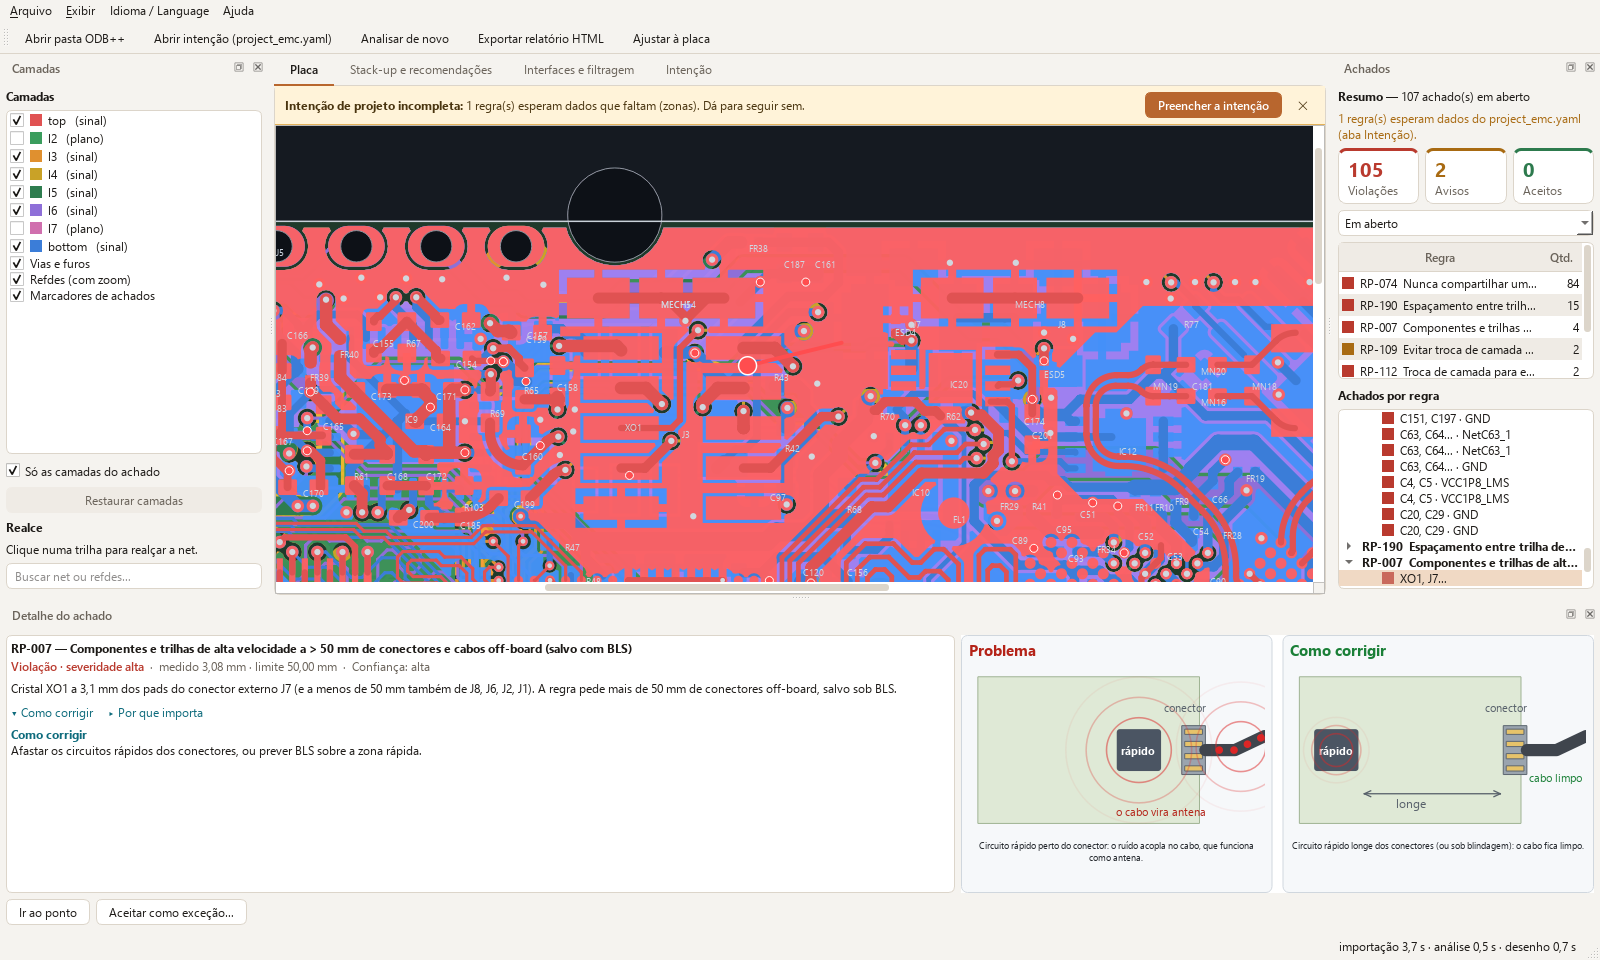
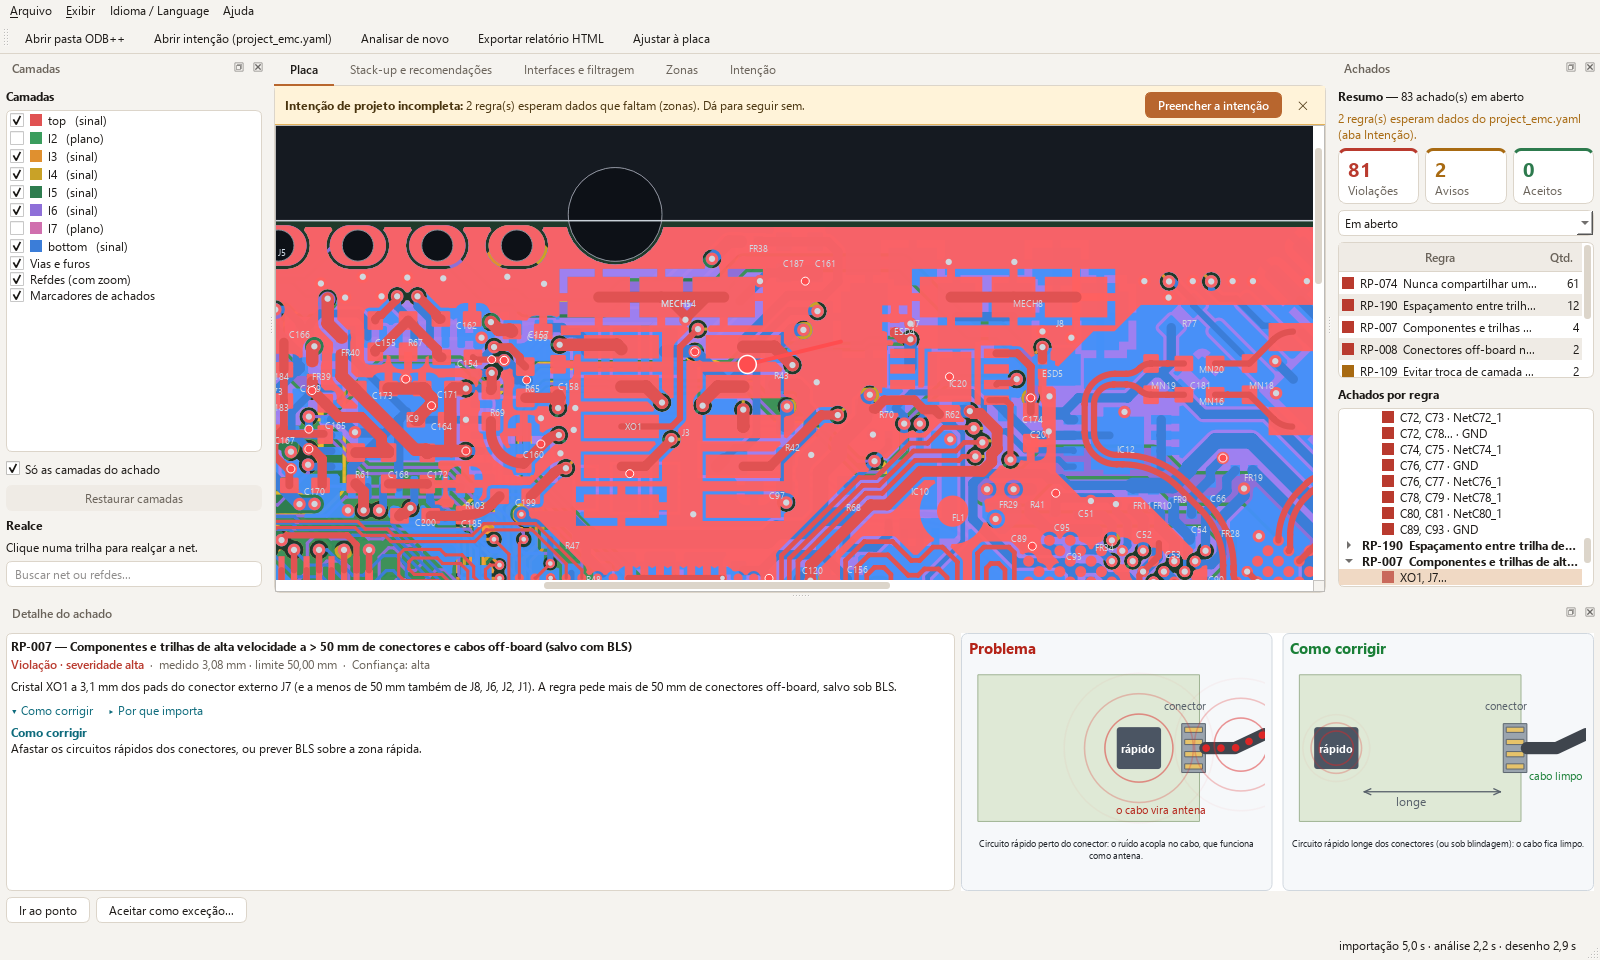
Vitrine: zonas eletromagnéticas, conectores fixos e terras (0V)
- O que faz: 30 checks automáticos; zonas, conectores fixos e terras (0V);
  relatório com as zonas e o 0V; limitação sobre a zona de cada CI.
- Imagens novas da 0.3.3: placa, achado, stack-up, interfaces, zonas, terras,
  tema escuro e a animação, em português e inglês; ilustrações dos
  conectores em bordas diferentes e da zona maior que λ/10.
- Guias e modelos do project_emc com zonas[].funcao e as vistas novas.

diff --git a/README.md b/README.md
@@ -8,7 +8,7 @@
 **Indicação de riscos de EMC em placas de circuito impresso, a partir do ODB++, antes de mandar fabricar.**
 *EMC risk review for PCBs, from their ODB++ export, before you send them to fab. [English below](#english).*
 
-![O EMClytics em uso: a placa com o resumo dos achados, um achado com a ilustração animada, o stack-up, as interfaces e o tema escuro](docs/img/demo.png)
+![O EMClytics em uso: a placa com o resumo dos achados, um achado com a ilustração animada, o stack-up, as interfaces, as zonas, o 0V e o tema escuro](docs/img/demo.png)
 
 O EMClytics lê a exportação ODB++ da placa, aplica uma base de regras de boas práticas de layout para EMC e mostra cada risco na placa: o que foi encontrado, por que importa, como corrigir, a severidade e a confiança do achado. Cada achado vem com uma ilustração animada do problema e da correção.
 
@@ -20,11 +20,13 @@ O EMClytics lê a exportação ODB++ da placa, aplica uma base de regras de boas
   - Conferido com exportações do Altium Designer e do Siemens Xpedition. O programa segue a especificação ODB++ 8.1, então outras ferramentas que exportam ODB++ devem abrir.
   - Placas rígido-flex (zonas rígida e flexível) e HDI (vias cegas, enterradas, empilhadas e escalonadas), em polegada ou milímetro.
 - **288 regras** de layout para EMC: zoneamento, planos e caminho de retorno, desacoplamento, interfaces e filtragem, linhas de transmissão, troca de camada, stack-up, cristais, ESD de sistema e outras. Cada regra traz o mecanismo físico e a correção sugerida.
-- **25 checks automáticos**, entre eles:
+- **30 checks automáticos**, entre eles:
   - trilha cruzando fenda ou divisão do plano de referência;
+  - 0V dividido (como AGND/DGND), conectores em partes diferentes do plano e costura de divisas e isolações;
   - plano de referência incompleto ou hachurado, e trilha rápida perto da borda do plano;
   - decap longe do pino de alimentação, na face oposta ou com via compartilhada;
-  - circuitos rápidos e cristais perto de conectores externos;
+  - circuitos rápidos e cristais perto de conectores externos, e conectores externos espalhados por várias bordas;
+  - zona maior que λ/10 em fMAX sem previsão de blindagem;
   - troca de camada em net crítica, sem vias de costura ou perto de fenda;
   - planos da mesma rede sem vias de costura a cada λ/15;
   - espaçamento de trilhas de clock;
@@ -35,10 +37,13 @@ O EMClytics lê a exportação ODB++ da placa, aplica uma base de regras de boas
 - **Ilustração animada em cada achado:** o problema e a correção lado a lado, com a corrente andando, para entender o contexto sem ser especialista.
 - **Nada passa por falta de dado:** regra que depende de um dado ausente aparece como "não verificada", com o motivo. As regras manuais aparecem como checklist.
 - **Stack-up em corte**, com o papel de cada camada; **recomendações** de roteamento por tipo de sinal; **interfaces e filtragem** por conector, com o caminho de cada pino até o CI.
-- **Relatório HTML** da análise, com o mesmo resumo.
+- **Zonas eletromagnéticas:** a zona de cada CI (interface, rádio, analógico, digital, digital rápido, fonte chaveada), se a disposição atual mistura as zonas e uma proposta sobre o contorno da placa, com os CIs, os conectores e onde vai blindagem. Outra vista mantém os conectores e as antenas no lugar e arruma o resto em volta deles.
+- **Terras (0V):** o papel de cada rede de 0V (principal, AGND/DGND, chassi, entrada, isolada), onde fica, o que liga uma à outra e o que fazer.
+- **Relatório HTML** da análise, com o mesmo resumo, as zonas e o 0V.
 - **Tema claro e escuro**, que pode seguir o Windows (**Exibir › Tema**).
 - **Português e inglês:** interface, achados, regras e relatório nos dois idiomas (menu **Idioma / Language**).
 - **Placa de exemplo** dentro do programa (LimeSDR Mini 2.5), para ver tudo funcionando com um clique.
+- **Linha de comando** (`EMClytics-cli.exe`): o mesmo relatório sem abrir a janela, para usar em scripts.
 - **Sem IA e sem nuvem:** regras fixas, e tudo roda no seu computador.
 
 | | |
@@ -47,6 +52,8 @@ O EMClytics lê a exportação ODB++ da placa, aplica uma base de regras de boas
 | A placa, com as camadas e o resumo dos achados | Interfaces e filtragem, por conector |
 | ![Stack-up em corte e recomendações](docs/img/stackup.png) | ![Tema escuro](docs/img/tema_escuro.png) |
 | Stack-up em corte e recomendações por tipo de sinal | Tema escuro |
+| ![Zonas: a proposta sobre o contorno da placa](docs/img/zonas.png) | ![Terras (0V)](docs/img/terras.png) |
+| Zonas: a proposta, com os CIs, os conectores e a blindagem | Terras (0V): as redes de 0V e o que fazer |
 | ![Achado na placa: oscilador a 3,1 mm de um conector externo](docs/img/achado.png) | |
 | Um achado: o que é, a medida, como corrigir e a ilustração | |
 
@@ -57,6 +64,8 @@ Ao clicar num achado, o painel de detalhe mostra o problema e a correção, anim
 ![Trilha cruzando uma fenda no plano](docs/img/ilustracao_fenda.png)
 ![Capacitor de desacoplamento longe do pino](docs/img/ilustracao_desacoplamento.png)
 ![Troca de camada sem via de retorno](docs/img/ilustracao_troca_camada.png)
+![Conectores em bordas diferentes: os cabos formam um dipolo](docs/img/ilustracao_conectores_bordas.png)
+![Zona maior que λ/10 sem blindagem](docs/img/ilustracao_zona_grande.png)
 
 ## Download
 
@@ -84,6 +93,7 @@ Passo a passo: [docs/guia_rapido.md](docs/guia_rapido.md). Modelo comentado da i
 - Polígono hachurado é detectado e avisado, mas não vira plano: para a análise, use preenchimento sólido.
 - Slots desenhados como linha na furação não são lidos.
 - No rígido-flex, a análise usa o stack-up da zona rígida também na zona flexível.
+- A zona de cada CI vem do que está ligado a ele (conector, cristal, antena, indutor de fonte chaveada, nets rápidas, nome das nets): confira e, se precisar, corrija em `zonas[].funcao` no `project_emc.yaml`. A proposta de zonas é um esboço; a posição exata e o roteamento ficam com o projetista.
 
 O que mudou e o que ainda não existe, versão a versão: [CHANGELOG.md](CHANGELOG.md).
 
@@ -113,7 +123,7 @@ Imagens: placa LimeSDR Mini 2.5, da Lime Microsystems, sob a Solderpad Hardware 
 
 **EMC risk review for printed circuit boards, from their ODB++ export, before you send them to fab.**
 
-![EMClytics in use: the board with the findings summary, a finding with its animated illustration, the stack-up, the interfaces and the dark theme](docs/img/en_demo.png)
+![EMClytics in use: the board with the findings summary, a finding with its animated illustration, the stack-up, the interfaces, the zones, the 0V and the dark theme](docs/img/en_demo.png)
 
 EMClytics reads the ODB++ export of a board, applies a rule base of PCB layout good practices for EMC and shows each risk on the board: what was found, why it matters, how to fix it, its severity and how confident the finding is. Each finding comes with an animated illustration of the problem and the fix.
 
@@ -125,11 +135,13 @@ EMClytics reads the ODB++ export of a board, applies a rule base of PCB layout g
   - Checked with exports from Altium Designer and Siemens Xpedition. The program follows the ODB++ 8.1 specification, so other tools that export ODB++ should open.
   - Rigid-flex boards (rigid and flexible zones) and HDI (blind, buried, stacked and staggered vias), in inches or millimeters.
 - **288 EMC layout rules:** zoning, planes and return path, decoupling, interfaces and filtering, transmission lines, layer changes, stack-up, crystals, system ESD and others. Each rule gives the physical mechanism and the suggested fix.
-- **25 automatic checks**, among them:
+- **30 automatic checks**, among them:
   - a track crossing a slot or split in the reference plane;
+  - a split 0V (like AGND/DGND), connectors on different parts of the plane and stitching of boundaries and isolations;
   - an incomplete or hatched reference plane, and a fast track near the plane edge;
   - a decap far from the power pin, on the opposite side or on a shared via;
-  - fast circuits and crystals near external connectors;
+  - fast circuits and crystals near external connectors, and external connectors spread over several edges;
+  - a zone larger than λ/10 at fMAX without provision for shielding;
   - layer changes on a critical net, without stitching vias or near a slot;
   - planes of the same net without stitching vias every λ/15;
   - clock track spacing;
@@ -140,10 +152,13 @@ EMClytics reads the ODB++ export of a board, applies a rule base of PCB layout g
 - **An animated illustration in each finding:** the problem and the fix side by side, with the current moving, to understand the context without being a specialist.
 - **Missing data never passes:** a rule that depends on missing data appears as "not verified", with the reason. Manual rules appear as a checklist.
 - **Stack-up cross-section**, with the role of each layer; **routing recommendations** by signal type; **interfaces and filtering** per connector, with the path from each pin to the IC.
-- **HTML report** of the analysis, with the same summary.
+- **Electromagnetic zones:** the zone of each IC (interface, radio, analog, digital, high-speed digital, switching power supply), whether the current layout mixes the zones and a proposal over the board outline, with the ICs, the connectors and where shielding goes. Another view keeps the connectors and antennas in place and arranges the rest around them.
+- **Grounds (0V):** the role of each 0V net (main, AGND/DGND, chassis, input, isolated), where it is, what connects one to another and what to do.
+- **HTML report** of the analysis, with the same summary, the zones and the 0V.
 - **Light and dark theme**, which can follow Windows (**View › Theme**).
 - **Portuguese and English:** interface, findings, rules and report in both languages (**Idioma / Language** menu).
 - **An example board** inside the program (LimeSDR Mini 2.5), to see everything working with one click.
+- **Command line** (`EMClytics-cli.exe`): the same report without opening the window, for use in scripts.
 - **No AI and no cloud:** fixed rules, and everything runs on your computer.
 
 | | |
@@ -152,12 +167,16 @@ EMClytics reads the ODB++ export of a board, applies a rule base of PCB layout g
 | The board, with layers and the findings summary | Interfaces and filtering, per connector |
 | ![Stack-up cross-section and recommendations](docs/img/en_stackup.png) | ![Dark theme](docs/img/en_tema_escuro.png) |
 | Stack-up cross-section and recommendations by signal type | Dark theme |
+| ![Zones: the proposal over the board outline](docs/img/en_zonas.png) | ![Grounds (0V)](docs/img/en_terras.png) |
+| Zones: the proposal, with the ICs, the connectors and the shielding | Grounds (0V): the 0V nets and what to do |
 | ![Finding on the board: oscillator 3.1 mm from an external connector](docs/img/en_achado.png) | |
 | A finding: what it is, the measurement, how to fix it and the illustration | |
 
 ![Track crossing a slot in the plane](docs/img/en_ilustracao_fenda.png)
 ![Decoupling capacitor far from the pin](docs/img/en_ilustracao_desacoplamento.png)
 ![Layer change without a return via](docs/img/en_ilustracao_troca_camada.png)
+![Connectors on different edges: the cables form a dipole](docs/img/en_ilustracao_conectores_bordas.png)
+![Zone larger than λ/10 without shielding](docs/img/en_ilustracao_zona_grande.png)
 
 ### Download
 
@@ -185,6 +204,7 @@ Step by step: [docs/quick_guide.md](docs/quick_guide.md). Commented design inten
 - A hatched polygon is detected and reported, but does not become a plane: for the analysis, use a solid fill.
 - Slots drawn as lines in the drill data are not read.
 - On rigid-flex boards, the analysis uses the rigid zone's stack-up in the flexible zone too.
+- The zone of each IC comes from what is connected to it (connector, crystal, antenna, switching supply inductor, fast nets, net names): check it and, if needed, correct it in `zonas[].funcao` in `project_emc.yaml`. The zone proposal is a sketch; the exact position and the routing are up to the designer.
 
 ### Free and Pro
 

diff --git a/docs/quick_guide.md b/docs/quick_guide.md
@@ -14,7 +14,7 @@ The result is an `odb` folder (or a `.tgz`/`.zip`), usually inside `Project Outp
 
 ## 2. Open it in EMClytics
 
-On the start screen, **Open ODB++ folder** and choose the `odb` folder, or **Open ODB++ file** for the compressed file. You can also drag the folder or the zip onto the window (with `project_emc.yaml` together, if you have one). The boards you opened last are in **Recent**. To try the program without exporting anything, use **Open the example board** (the LimeSDR Mini 2.5, with an illustrative design intent). The analysis takes a few seconds (longer for large boards) and the board appears with its layers. If the export has unreadable records (truncated or corrupted file), the board opens with a bar at the top that says in which files, and the affected data show as partial in the rules.
+On the start screen, **Open ODB++ folder** and choose the `odb` folder, or **Open ODB++ file** for the compressed file. You can also drag the folder or the zip onto the window (with `project_emc.yaml` together, if you have one). The boards you opened last are in **Recent**. To try the program without exporting anything, use **Open the example board** (the LimeSDR Mini 2.5, with an illustrative design intent). The analysis takes a few seconds (longer for large boards), with the progress in the bar at the bottom; **Cancel** (or Esc) stops it, and the board that was on screen stays. Then the board appears with its layers. If the export has unreadable records (truncated or corrupted file), the board opens with a bar at the top that says in which files, and the affected data show as partial in the rules.
 
 - **Layers** (left): turn layers, vias, refdes and markers on and off. With **Only the finding's layers**, the board shows only the layers of the chosen finding; **Restore layers** goes back to what was on.
 - **Findings** (right):
@@ -27,6 +27,9 @@ The other tabs:
 
 - **Stack-up and recommendations:** the cross-section of the board, with the role of each layer (signal, 0V plane, PWR plane) and the reference plane of each signal layer, and the routing recommendations by signal type.
 - **Interfaces and filtering:** each external connector, with the path from each pin to the IC and the filtering tips.
+- **Zones:** the electromagnetic zone of each IC (interface, radio, analog, digital, high-speed digital, switching power supply), whether the current layout mixes the zones and a proposal over the board outline: the separated zones, the ICs and the connectors inside them and where shielding goes. **Save drawing…** writes the drawing as SVG to send to whoever does the layout. If the program gets a component's zone wrong, correct it in `zonas[].funcao` in `project_emc.yaml`.
+  - **Fixed connectors:** when the connectors cannot move (enclosure, panel), this view keeps the connectors and antennas where they are and arranges the other zones around them.
+  - **Grounds (0V):** the board's 0V nets (main, AGND/DGND, chassis, input, isolated), where the copper of each one is, what connects one to another and what to do with them.
 
 The theme is in **View › Theme** (Follow Windows, Light or Dark). The language (Portuguese or English) is in the **Idioma / Language** menu; the change applies when the program restarts. The first time, the program opens in the Windows language.
 
@@ -35,7 +38,7 @@ The theme is in **View › Theme** (Follow Windows, Light or Dark). The language
 The export does not say what the highest frequency of interest is, which nets are critical or which connectors leave the board. This information goes in `project_emc.yaml`, next to the export. Until it is filled in, a notice at the top of the board shows how many rules are waiting for this data.
 
 - In the **Design intent** tab, create the file and fill in with the form fMAX, critical nets, external connectors and the grounds (0V) kept apart on purpose, with the reason.
-- The other fields (crystals, zones, manual stack-up, rule parameters) stay in the file itself; the commented template is [project_emc.example.yaml](project_emc.example.yaml). The keys of the file are in Portuguese in both languages: they are the file format.
+- The other fields (crystals, zones, manual stack-up, rule parameters, refdes prefixes) stay in the file itself; the commented template is [project_emc.example.yaml](project_emc.example.yaml). The keys of the file are in Portuguese in both languages: they are the file format.
 - A newly created file starts as a **draft**: the findings that depend on it come out with lower confidence until you review it and change `rascunho: true` to `false`.
 
 ## 4. Read the results
@@ -57,3 +60,15 @@ If a finding is acceptable in your project, select it and use **Accept as except
 ## 6. Report
 
 **Export HTML report** creates a file with the same summary as the screen, the findings of each rule, the rules not verified, the manual checklist, the rules with no finding and what the importer was able to read from the export. The report is in the program's language, shows the program version, the program that generated the ODB++ and an identifier of the rule base used, and follows the light or dark theme of the system of whoever opens it.
+
+## 7. Command line
+
+To create the report without opening the window (for example, in a script), use `EMClytics-cli.exe`, in the program folder:
+
+```
+EMClytics-cli --entrada <ODB++ folder or .tgz> --intencao project_emc.yaml --saida report.html
+```
+
+`EMClytics-cli --help` shows the options; they are in Portuguese, as are the keys of `project_emc.yaml`. The language is the same as the window's; to change it for one run only, use `--idioma en`. The exit code is 0 when the report was written, 2 when there is an error in `project_emc.yaml` and 3 when the board did not open.
+
+To find out whether there is a new version, use **Help › Check for updates**: the versions page opens in the browser. The program itself does not use the internet.

diff --git a/docs/guia_rapido.md b/docs/guia_rapido.md
@@ -14,7 +14,7 @@ O resultado é uma pasta `odb` (ou um `.tgz`/`.zip`), em geral dentro de `Projec
 
 ## 2. Abrir no EMClytics
 
-Na tela inicial, **Abrir pasta ODB++** e escolha a pasta `odb`, ou **Abrir arquivo ODB++** para o arquivo compactado. Também dá para arrastar a pasta ou o zip para a janela (com o `project_emc.yaml` junto, se houver). As placas abertas por último ficam em **Recentes**. Para conhecer o programa sem exportar nada, use **Abrir a placa de exemplo** (a LimeSDR Mini 2.5, com uma intenção ilustrativa). A análise leva alguns segundos (placas grandes, mais) e a placa aparece com as camadas. Se a exportação tiver registros ilegíveis (arquivo cortado ou corrompido), a placa abre com uma faixa no alto que diz em quais arquivos, e os dados afetados aparecem como parciais nas regras.
+Na tela inicial, **Abrir pasta ODB++** e escolha a pasta `odb`, ou **Abrir arquivo ODB++** para o arquivo compactado. Também dá para arrastar a pasta ou o zip para a janela (com o `project_emc.yaml` junto, se houver). As placas abertas por último ficam em **Recentes**. Para conhecer o programa sem exportar nada, use **Abrir a placa de exemplo** (a LimeSDR Mini 2.5, com uma intenção ilustrativa). A análise leva alguns segundos (placas grandes, mais), com o andamento na barra embaixo; **Cancelar** (ou Esc) interrompe, e a placa que estava na tela continua. Depois, a placa aparece com as camadas. Se a exportação tiver registros ilegíveis (arquivo cortado ou corrompido), a placa abre com uma faixa no alto que diz em quais arquivos, e os dados afetados aparecem como parciais nas regras.
 
 - **Camadas** (à esquerda): ligue e desligue camadas, vias, refdes e marcadores. Com **Só as camadas do achado**, a placa mostra só as camadas do achado escolhido; **Restaurar camadas** volta ao que estava.
 - **Achados** (à direita):
@@ -27,6 +27,9 @@ As outras abas:
 
 - **Stack-up e recomendações:** o corte da placa, com o papel de cada camada (sinal, plano 0V, plano PWR) e o plano de referência de cada camada de sinal, e as recomendações de roteamento por tipo de sinal.
 - **Interfaces e filtragem:** cada conector externo, com o caminho de cada pino até o CI e as dicas de filtragem.
+- **Zonas:** a zona eletromagnética de cada CI (interface, rádio, analógico, digital, digital rápido, fonte chaveada), se a disposição atual mistura as zonas e uma proposta sobre o contorno da placa: as zonas separadas, os CIs e os conectores dentro delas e onde vai blindagem. **Salvar desenho…** grava o desenho em SVG para mandar a quem faz o layout. Se o programa errar a zona de um componente, corrija em `zonas[].funcao` no `project_emc.yaml`.
+  - **Conectores fixos:** quando os conectores não podem mudar de lugar (gabinete, painel), esta vista mantém os conectores e as antenas onde estão e arruma as outras zonas em volta deles.
+  - **Terras (0V):** as redes de 0V da placa (principal, AGND/DGND, chassi, entrada, isolada), onde fica o cobre de cada uma, o que liga uma à outra e o que fazer com elas.
 
 O tema fica em **Exibir › Tema** (Seguir o Windows, Claro ou Escuro). O idioma (português ou inglês) fica no menu **Idioma / Language**; a troca vale quando o programa reabre. Na primeira vez, o programa abre no idioma do Windows.
 
@@ -35,7 +38,7 @@ O tema fica em **Exibir › Tema** (Seguir o Windows, Claro ou Escuro). O idioma
 A exportação não diz qual é a frequência máxima de interesse, quais nets são críticas nem quais conectores saem da placa. Essas informações ficam no `project_emc.yaml`, ao lado da exportação. Enquanto ela não for preenchida, um aviso no alto da placa mostra quantas regras esperam esses dados.
 
 - Na aba **Intenção**, crie o arquivo e preencha pelo formulário fMAX, nets críticas, conectores externos e as terras (0V) separadas de propósito, com o motivo.
-- Os demais campos (cristais, zonas, stack-up manual, parâmetros de regras) ficam no próprio arquivo; o modelo comentado é o [project_emc.exemplo.yaml](project_emc.exemplo.yaml).
+- Os demais campos (cristais, zonas, stack-up manual, parâmetros de regras, prefixos de refdes) ficam no próprio arquivo; o modelo comentado é o [project_emc.exemplo.yaml](project_emc.exemplo.yaml).
 - O arquivo criado começa como **rascunho**: os achados que dependem dele saem com confiança menor até você revisá-lo e trocar `rascunho: true` por `false`.
 
 ## 4. Ler os resultados
@@ -57,3 +60,15 @@ Se um achado é aceitável no seu projeto, selecione-o e use **Aceitar como exce
 ## 6. Relatório
 
 **Exportar relatório HTML** gera um arquivo com o mesmo resumo da tela, os achados de cada regra, as regras não verificadas, o checklist manual, as regras sem achado e o que o importador conseguiu ler da exportação. O relatório traz a versão do programa, o programa que gerou o ODB++ e um identificador da base de regras usada, e segue o tema claro ou escuro do sistema de quem abre.
+
+## 7. Linha de comando
+
+Para gerar o relatório sem abrir a janela (por exemplo, num script), use o `EMClytics-cli.exe`, que fica na pasta do programa:
+
+```
+EMClytics-cli --entrada <pasta ou .tgz do ODB++> --intencao project_emc.yaml --saida relatorio.html
+```
+
+`EMClytics-cli --help` mostra as opções. O idioma é o mesmo da janela; para trocar só numa execução, use `--idioma en`. O código de saída é 0 quando o relatório foi gravado, 2 quando há erro no `project_emc.yaml` e 3 quando a placa não abriu.
+
+Para saber se há versão nova, use **Ajuda › Verificar atualizações**: a página das versões abre no navegador. O programa em si não usa a internet.
